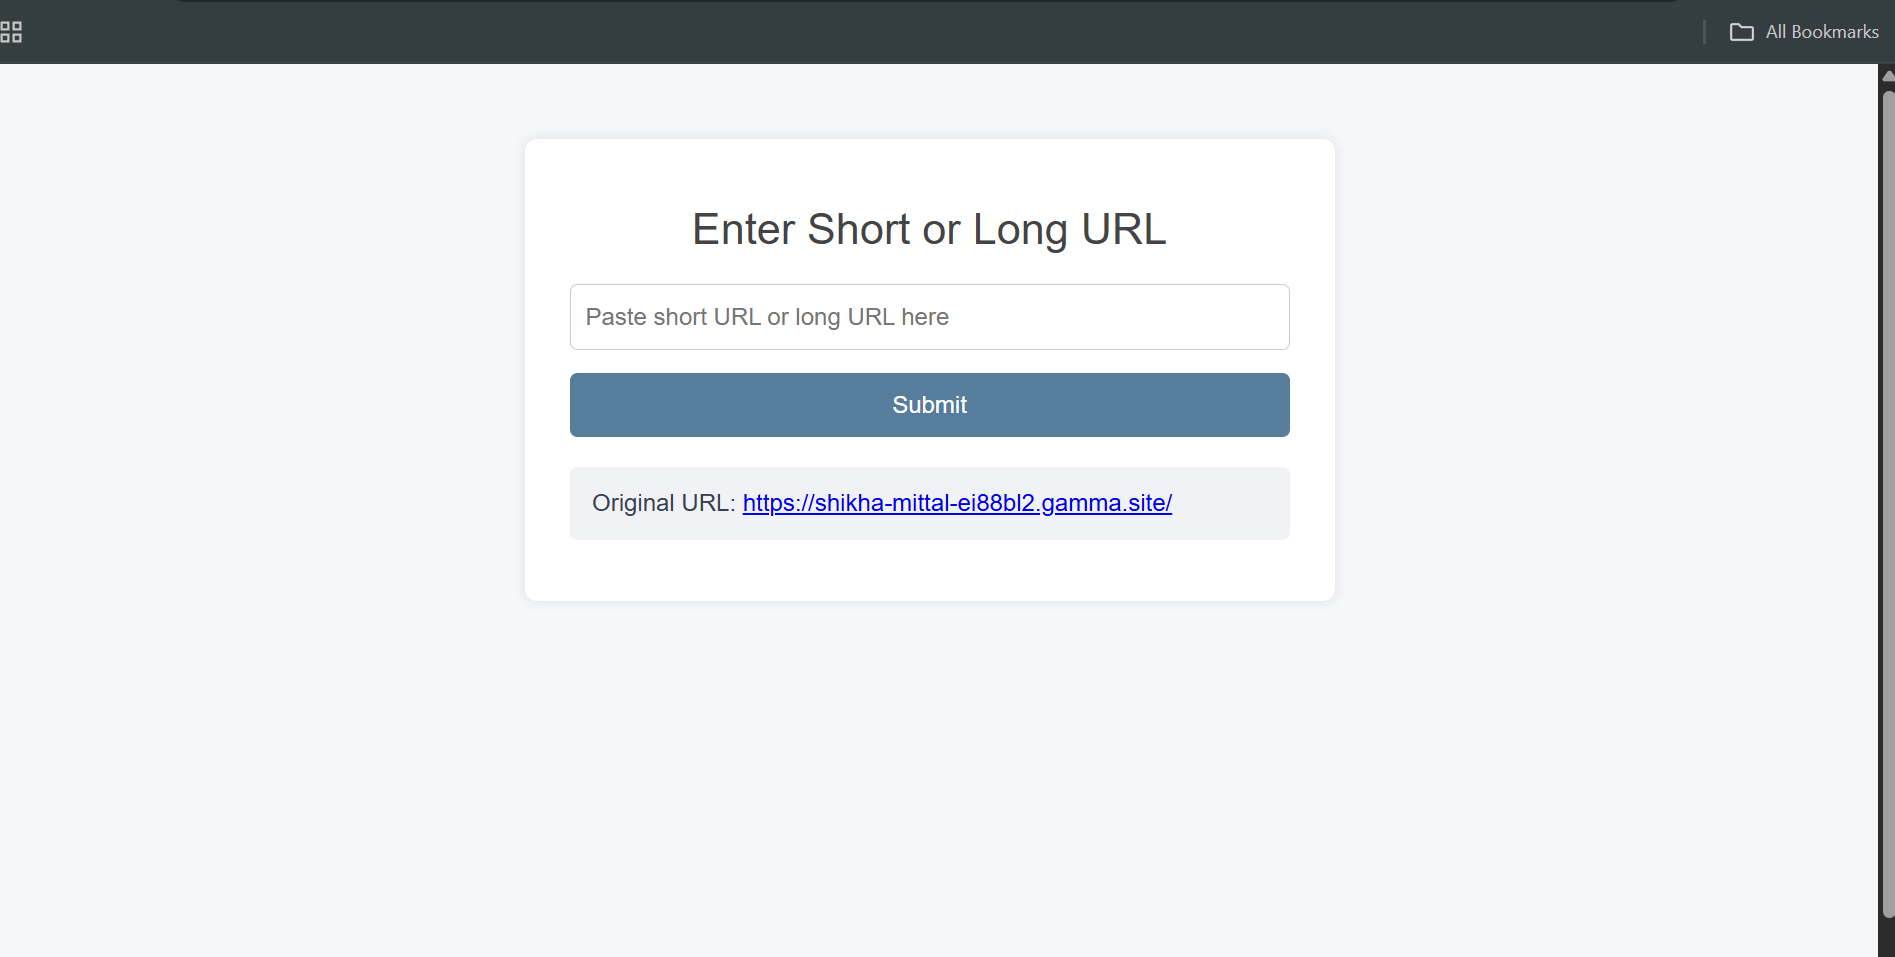
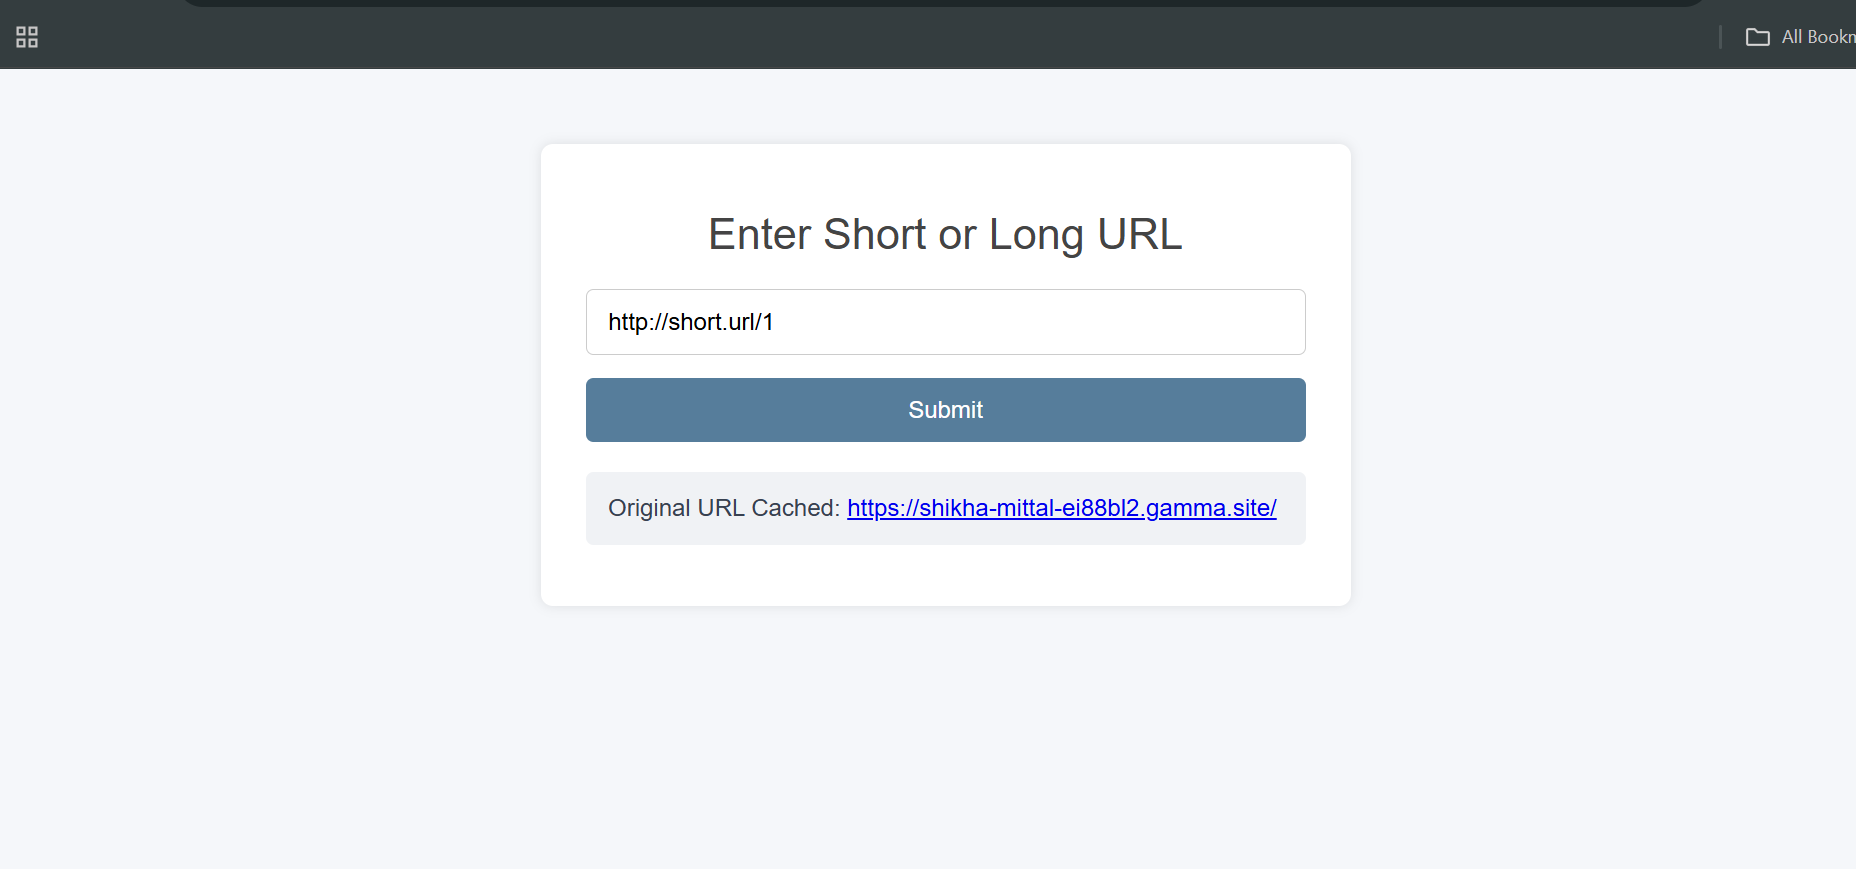
screenshot updated

Changed region(s): [[0.2812, 0.2175, 0.7188, 0.6214], [0.0, 0.0311, 1.0, 1.0]]

diff --git a/src/main/resources/static/index.html b/src/main/resources/static/index.html
@@ -130,7 +130,7 @@
             } else {
                 resultDiv.textContent = 'Unexpected response from server.';
             }
-            input.value = '';
+<!--            input.value = '';-->
         } catch (error) {
             errorDiv.textContent = error.message;
         } finally {
